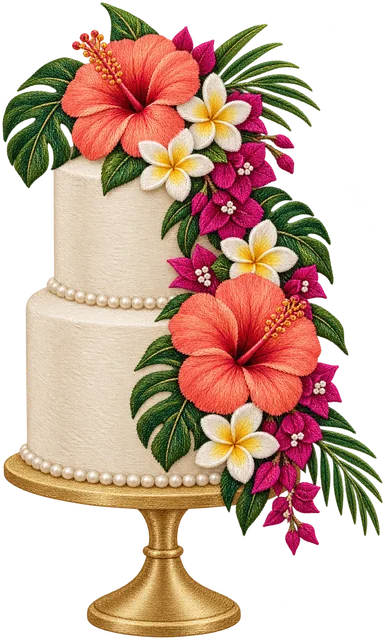
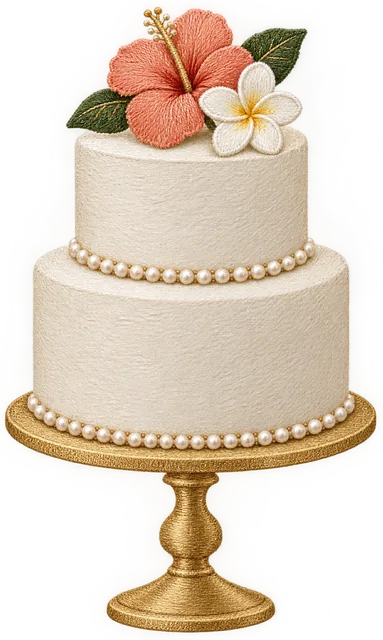
Subtler flowers throughout
Every floral piece redrawn with one to three blooms, slender stems and
plenty of empty space: the cover arch, corner sprigs, side vines,
envelope sprig, stamp, liner, cake, gramophone and bedside vase.
version_assets.py now also syncs each image's width and height.

diff --git a/site/index.html b/site/index.html
@@ -14,7 +14,7 @@
 <meta property="og:url" content="https://benrodrigues05.github.io/rodrigues-wedding/">
 <meta property="og:title" content="Benjamin &amp; Talisha are getting married">
 <meta property="og:description" content="Saturday 6 March 2027 · Collisheen Estate, Ballito. Tap to open your invitation.">
-<meta property="og:image" content="https://benrodrigues05.github.io/rodrigues-wedding/assets/og.jpg?v=b39ef718">
+<meta property="og:image" content="https://benrodrigues05.github.io/rodrigues-wedding/assets/og.jpg?v=3ebeaa2f">
 <meta property="og:image:width" content="1200">
 <meta property="og:image:height" content="630">
 <meta name="twitter:card" content="summary_large_image">
@@ -25,8 +25,8 @@
 <link rel="preconnect" href="https://fonts.gstatic.com" crossorigin>
 <link rel="stylesheet" href="https://fonts.googleapis.com/css2?family=Pinyon+Script&amp;display=block">
 <link rel="stylesheet" href="https://fonts.googleapis.com/css2?family=Cormorant+Garamond:ital,wght@0,400;0,500;0,600;1,400;1,500&amp;display=swap">
-<link rel="preload" as="image" href="assets/hero-arch.webp?v=2796157a" type="image/webp">
-<link rel="stylesheet" href="styles.css?v=691ed3bb">
+<link rel="preload" as="image" href="assets/hero-arch.webp?v=c3e23fb2" type="image/webp">
+<link rel="stylesheet" href="styles.css?v=4a9dcc30">
 <script>
   /* Show the envelope only when JavaScript is running. If script.js?v=0f5ac863 fails to
      load or errors, the invitation is revealed instead of staying sealed. */
@@ -47,8 +47,8 @@
 <!-- ============ THE ENVELOPE (shown first, opened by script.js?v=0f5ac863) ============ -->
 <div class="scene" id="scene">
   <div class="scene-vignette" id="scene-vignette"></div>
-  <img class="scene-sprig scene-sprig--top" src="assets/coastal-corner.webp?v=c77b0b40" width="640" height="667" alt="">
-  <img class="scene-sprig scene-sprig--bottom" src="assets/coastal-spray.webp?v=dd65c2da" width="680" height="748" alt="">
+  <img class="scene-sprig scene-sprig--top" src="assets/coastal-corner.webp?v=b234eb41" width="600" height="652" alt="">
+  <img class="scene-sprig scene-sprig--bottom" src="assets/coastal-spray.webp?v=30b27298" width="600" height="821" alt="">
 
   <div class="envelope" id="envelope" aria-hidden="true">
     <div class="env-back is-hidden" id="env-back">
@@ -78,7 +78,7 @@
     </div>
 
     <div class="env-front" id="env-front">
-      <img class="env-stamp" src="assets/stamp.webp?v=ea42b23d" width="300" height="398" alt="">
+      <img class="env-stamp" src="assets/stamp.webp?v=bd9901a7" width="300" height="409" alt="">
       <svg class="env-postmark" viewBox="0 0 200 80" focusable="false">
         <defs>
           <path id="pm-top" d="M 13 40 A 27 27 0 0 1 67 40"/>
@@ -106,7 +106,7 @@
         </g>
       </svg>
       <p class="env-to"><span class="env-recipient" id="recipient">To our favourite people</span></p>
-      <img class="env-sprig" src="assets/coastal-sprig.webp?v=4014f4d6" width="720" height="501" alt="">
+      <img class="env-sprig" src="assets/coastal-sprig.webp?v=27c94e73" width="640" height="514" alt="">
     </div>
   </div>
 
@@ -119,8 +119,8 @@
 <!-- Wide screens only: the same sprigs as on the envelope's table, so the
      page keeps the setting once the letter is open. -->
 <div class="table-decor" id="table-decor" aria-hidden="true">
-  <img class="table-sprig table-sprig--top" src="assets/coastal-corner.webp?v=c77b0b40" width="640" height="667" alt="">
-  <img class="table-sprig table-sprig--bottom" src="assets/coastal-spray.webp?v=dd65c2da" width="680" height="748" alt="">
+  <img class="table-sprig table-sprig--top" src="assets/coastal-corner.webp?v=b234eb41" width="600" height="652" alt="">
+  <img class="table-sprig table-sprig--bottom" src="assets/coastal-spray.webp?v=30b27298" width="600" height="821" alt="">
 </div>
 
 <main class="suite" id="invitation">
@@ -129,7 +129,7 @@
   <header class="hero" id="top">
     <article class="hero-card" id="hero-card" tabindex="-1">
       <p class="eyebrow">The wedding of</p>
-      <img class="hero-arch" src="assets/hero-arch.webp?v=2796157a" width="974" height="1499" alt="Benjamin and Talisha in a black-and-white photograph, framed by an embroidered stone arch of bougainvillea, hibiscus and frangipani">
+      <img class="hero-arch" src="assets/hero-arch.webp?v=c3e23fb2" width="935" height="1483" alt="Benjamin and Talisha in a black-and-white photograph, framed by an embroidered stone arch of bougainvillea, hibiscus and frangipani">
       <h1 class="names">Benjamin <span class="amp">&amp;</span> Talisha</h1>
       <p class="hero-date">Saturday · 6 March 2027</p>
       <p class="hero-place">Collisheen Estate · Ballito</p>
@@ -139,8 +139,8 @@
 
   <!-- ============ 2. INVITATION + COUNTDOWN ============ -->
   <section class="families" id="invite" aria-labelledby="invite-title">
-    <img class="garland garland--left" src="assets/coastal-garland.webp?v=bdf24664" width="327" height="1200" alt="" loading="lazy" decoding="async">
-    <img class="garland garland--right" src="assets/coastal-garland.webp?v=bdf24664" width="327" height="1200" alt="" loading="lazy" decoding="async">
+    <img class="garland garland--left" src="assets/coastal-garland.webp?v=33c58f59" width="167" height="1200" alt="" loading="lazy" decoding="async">
+    <img class="garland garland--right" src="assets/coastal-garland.webp?v=33c58f59" width="167" height="1200" alt="" loading="lazy" decoding="async">
 
     <h2 class="script-title" id="invite-title">Please join us</h2>
     <p class="lede invite-lede">as we say &ldquo;I do&rdquo; in a little chapel among the trees</p>
@@ -184,7 +184,7 @@
   <!-- ============ 4. THE DETAILS: the running order (striped linen) ============ -->
   <section class="details" id="details" aria-labelledby="details-title">
     <div class="details-panel">
-      <img class="motif details-tl" src="assets/coastal-spray.webp?v=dd65c2da" width="680" height="748" alt="" loading="lazy" decoding="async">
+      <img class="motif details-tl" src="assets/coastal-spray.webp?v=30b27298" width="600" height="821" alt="" loading="lazy" decoding="async">
       <img class="motif details-tr" src="assets/lanterns.webp?v=c26fea3b" width="434" height="640" alt="" loading="lazy" decoding="async">
       <h2 class="script-title details-title" id="details-title">The Details</h2>
 
@@ -212,7 +212,7 @@
       </ol>
 
       <img class="motif details-bl" src="assets/champagne.webp?v=5cf81765" width="520" height="579" alt="" loading="lazy" decoding="async">
-      <img class="motif details-br" src="assets/cake.webp?v=f2ed0869" width="385" height="640" alt="" loading="lazy" decoding="async">
+      <img class="motif details-br" src="assets/cake.webp?v=a040beea" width="383" height="640" alt="" loading="lazy" decoding="async">
     </div>
   </section>
 
@@ -221,8 +221,8 @@
   <section class="dress" id="dress-code" aria-labelledby="dress-title">
     <div class="napkin">
       <div class="napkin-sprigs">
-        <img class="motif" src="assets/coastal-corner.webp?v=c77b0b40" width="640" height="667" alt="" loading="lazy" decoding="async">
-        <img class="motif" src="assets/coastal-sprig.webp?v=4014f4d6" width="720" height="501" alt="" loading="lazy" decoding="async">
+        <img class="motif" src="assets/coastal-corner.webp?v=b234eb41" width="600" height="652" alt="" loading="lazy" decoding="async">
+        <img class="motif" src="assets/coastal-sprig.webp?v=27c94e73" width="640" height="514" alt="" loading="lazy" decoding="async">
       </div>
       <img class="motif guests" src="assets/guests.webp?v=6ffe99b5" width="1100" height="697" alt="Embroidered guests in terracotta, orange, marigold, chartreuse, fuchsia and plum gowns, and sand and forest-green suits" loading="lazy" decoding="async">
       <h2 class="script-title" id="dress-title">Dress Code</h2>
@@ -240,7 +240,7 @@
 
   <!-- ============ 6. WHERE TO STAY ============ -->
   <section class="stay" id="stay" aria-labelledby="stay-title">
-    <img class="motif nightstand" src="assets/nightstand.webp?v=538ce414" width="295" height="480" alt="" loading="lazy" decoding="async">
+    <img class="motif nightstand" src="assets/nightstand.webp?v=cc990385" width="251" height="480" alt="" loading="lazy" decoding="async">
     <h2 class="script-title" id="stay-title">Where to Stay</h2>
     <p class="caps">Good-value stays near Ballito Junction</p>
     <p class="lede">Ballito Junction is a short drive from the venue, with plenty of places to eat nearby. A few of our picks:</p>
@@ -288,7 +288,7 @@
   <!-- ============ 8. RSVP (reply card) ============ -->
   <section class="rsvp" id="rsvp" aria-labelledby="rsvp-title">
     <div class="reply-card">
-      <img class="reply-stamp" src="assets/stamp.webp?v=ea42b23d" width="300" height="398" alt="" loading="lazy" decoding="async">
+      <img class="reply-stamp" src="assets/stamp.webp?v=bd9901a7" width="300" height="409" alt="" loading="lazy" decoding="async">
       <h2 class="script-title" id="rsvp-title">Kindly Reply</h2>
       <p class="reply-by">by 1 December 2026</p>
       <p class="reply-note">One reply covers everyone your invitation is addressed to.</p>
@@ -351,7 +351,7 @@
   <!-- ============ 9. THE PLAYLIST (fringed napkin) ============ -->
   <section class="playlist" id="playlist" aria-labelledby="playlist-title">
     <div class="napkin napkin--playlist">
-      <img class="motif gramophone" src="assets/gramophone.webp?v=53620f89" width="640" height="762" alt="" loading="lazy" decoding="async">
+      <img class="motif gramophone" src="assets/gramophone.webp?v=2d4e3658" width="640" height="900" alt="" loading="lazy" decoding="async">
       <h2 class="script-title" id="playlist-title">The Playlist</h2>
       <p class="lede">Which songs get you on the dance floor? Suggest one or two for our wedding playlist.</p>
 

diff --git a/site/styles.css b/site/styles.css
@@ -187,7 +187,7 @@ html.js:not(.is-open) body { overflow: hidden; }
   position: absolute;
   inset: 5% 4.5% 0;
   border-radius: 2px 2px 0 0;
-  background: url("assets/liner.webp?v=797885ae") 50% 0 / 150px 150px;
+  background: url("assets/liner.webp?v=ed8e408a") 50% 0 / 150px 150px;
 }
 .env-wall::after {            /* shadow inside the envelope's mouth */
   content: "";
@@ -221,7 +221,7 @@ html.js:not(.is-open) body { overflow: hidden; }
 .flap-paper,
 .flap-liner { position: absolute; inset: 0; }
 .flap-paper { clip-path: polygon(0 0, 100% 0, 50% 100%); background: #E7DFD0; }
-.flap-liner { clip-path: polygon(5.5% 0, 94.5% 0, 50% 90%); background: url("assets/liner.webp?v=797885ae") 50% 0 / 150px 150px; }
+.flap-liner { clip-path: polygon(5.5% 0, 94.5% 0, 50% 90%); background: url("assets/liner.webp?v=ed8e408a") 50% 0 / 150px 150px; }
 
 .env-seal {
   position: absolute;

diff --git a/tools/version_assets.py b/tools/version_assets.py
@@ -8,10 +8,15 @@ still show the old version. This rewrites assets/..., styles.css and script.js
 references in site/index.html and site/styles.css to end in ?v=<fingerprint>.
 The fingerprint only changes when the file does, so run it before every
 publish (it is safe to run repeatedly).
+
+It also sets each <img>'s width and height attributes to the picture's real
+size, so a redrawn image with new proportions never reserves the wrong space.
 """
 import hashlib
 import re
 from pathlib import Path
+
+from PIL import Image
 
 SITE = Path(__file__).resolve().parent.parent / "site"
 REF = re.compile(r'(?P<path>assets/[A-Za-z0-9._-]+|styles\.css|script\.js)(?:\?v=[0-9a-f]+)?(?=["\')\s])')
@@ -25,11 +30,27 @@ def fingerprint(match):
     return f"{path}?v={hashlib.md5(target.read_bytes()).hexdigest()[:8]}"
 
 
+IMG = re.compile(r'<img\b[^>]*?\bsrc="assets/(?P<name>[A-Za-z0-9._-]+)(?:\?v=[0-9a-f]+)?"[^>]*>')
+
+
+def sync_dimensions(html):
+    def fix(match):
+        tag, target = match.group(0), SITE / "assets" / match.group("name")
+        if not target.is_file() or target.suffix not in {".webp", ".png", ".jpg"}:
+            return tag
+        w, h = Image.open(target).size
+        tag = re.sub(r'\bwidth="\d+"', f'width="{w}"', tag)
+        return re.sub(r'\bheight="\d+"', f'height="{h}"', tag)
+    return IMG.sub(fix, html)
+
+
 def main():
     for name in ("styles.css", "index.html"):  # css first: index.html fingerprints it
         page = SITE / name
         before = page.read_text()
         after = REF.sub(fingerprint, before)
+        if name == "index.html":
+            after = sync_dimensions(after)
         if after != before:
             page.write_text(after)
         print(f"{name}: {len(REF.findall(after))} references tagged")

diff --git a/tools/make_hero.py b/tools/make_hero.py
@@ -58,7 +58,7 @@ def main():
     y0, y1, x0, x1 = box[0].min(), box[0].max(), box[1].min(), box[1].max()
     hero = hero.crop((max(x0 - 4, 0), max(y0 - 4, 0), min(x1 + 5, hero.width), min(y1 + 5, hero.height)))
     hero.save(OUT, "WEBP", quality=80, method=6)
-    print(f"wrote {OUT} ({hero.width}x{hero.height}); index.html expects 974x1499")
+    print(f"wrote {OUT} ({hero.width}x{hero.height}); index.html expects 935x1483")
 
 
 if __name__ == "__main__":

diff --git a/tools/ART.md b/tools/ART.md
@@ -72,6 +72,26 @@ accessories are in `source/retired/`.
 | gramophone (playlist) | 8ef3ca4e-8144-450b-9055-242d29804314 |
 | bedside table with vase | 78fa2c60-ea39-4a05-b423-ef9b52973b30 |
 
+### Subtle flowers (6 October 2026, third pass)
+
+Ben found the coastal pass too busy, so every floral piece was redrawn again
+with one to three blooms, slender stems and lots of empty space. These are the
+current versions (same file names as above). The busier coastal versions are
+the job IDs in the previous table.
+
+| Asset | Higgsfield job |
+|---|---|
+| cover arch frame (`source/arch-frame.png`) | 0118e38f-f979-4858-98d1-73a73ff9cbb6 |
+| `coastal-corner` (frangipani sprig) | 336735c1-1beb-485d-8881-fba7bd4e4bd6 |
+| `coastal-spray` (single bird-of-paradise) | 34de33f6-3b2d-4d01-8c22-3024c95172c5 |
+| `coastal-garland` (slender vine) | 13d6c94b-a02f-46fb-8803-5841cf15e6da |
+| `coastal-sprig` (single frangipani) | ecf930f9-5934-43e4-b562-2141bdbb5473 |
+| `stamp` | 06977b5a-a722-4a75-9554-046c931dda50 |
+| `liner` (opaque) | 1d57a88b-6a6e-4885-8e32-6a4733feaade |
+| `cake` | 68d1ee52-c1d9-4ef8-94f2-7ddb5c67568f |
+| `gramophone` | fa60bf45-e1c9-4e54-b3d1-556cc83b3099 |
+| `nightstand` | 83ac51de-d077-48ba-b422-2b78f8058e8c |
+
 Made by code rather than generated: the envelope, postmark, napkin fringe
 (`fringe.svg`), paper grain, stitching, link-preview image (`og.jpg`, a
 screenshot of the envelope) and the icons (the wax seal on paper).
